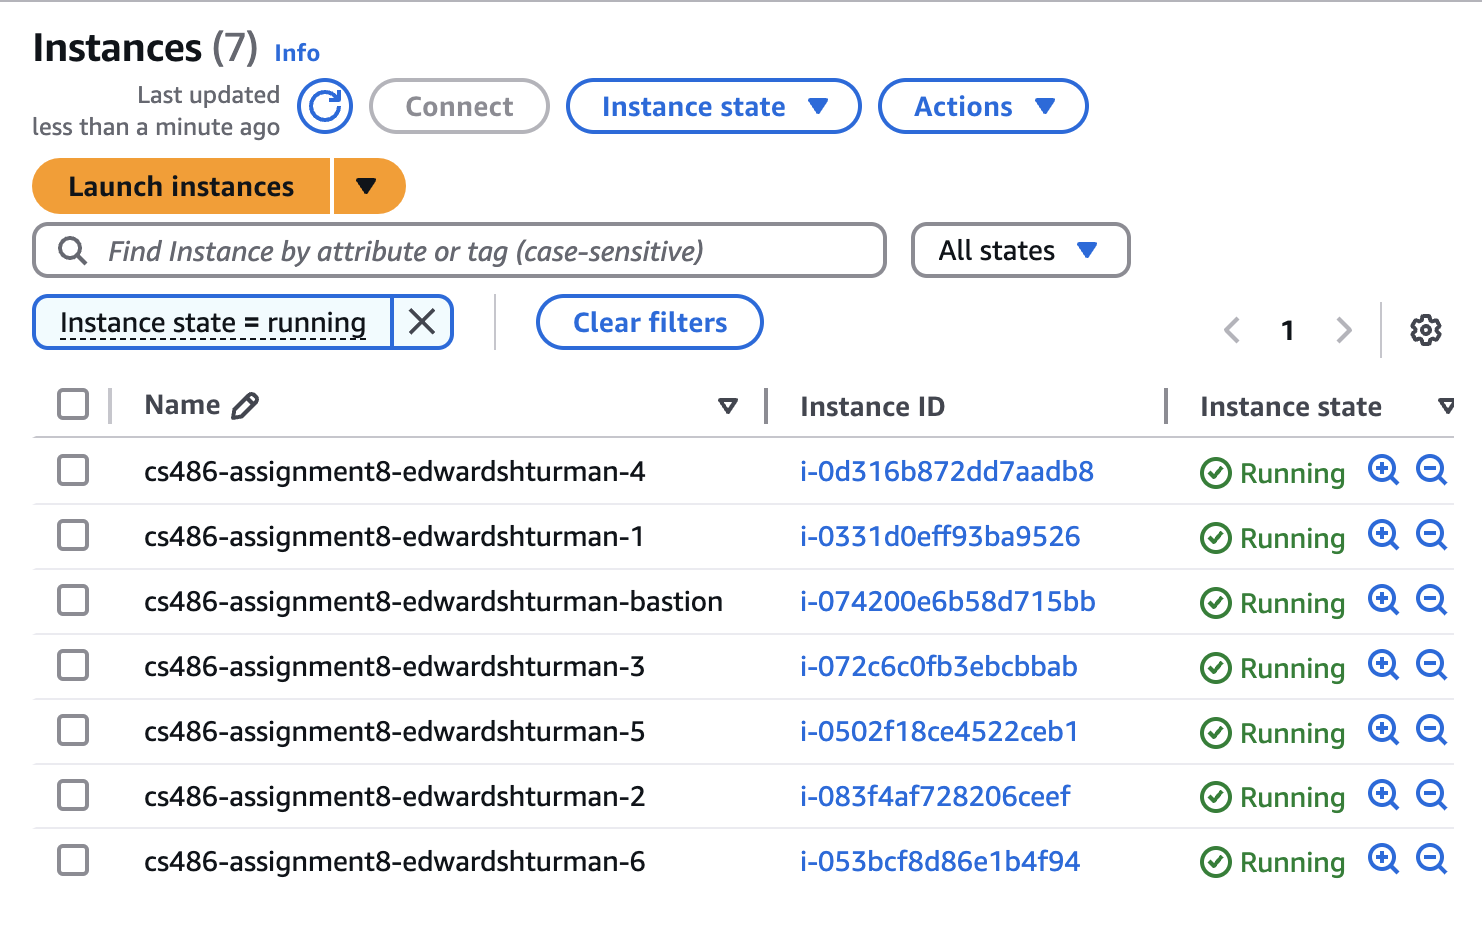
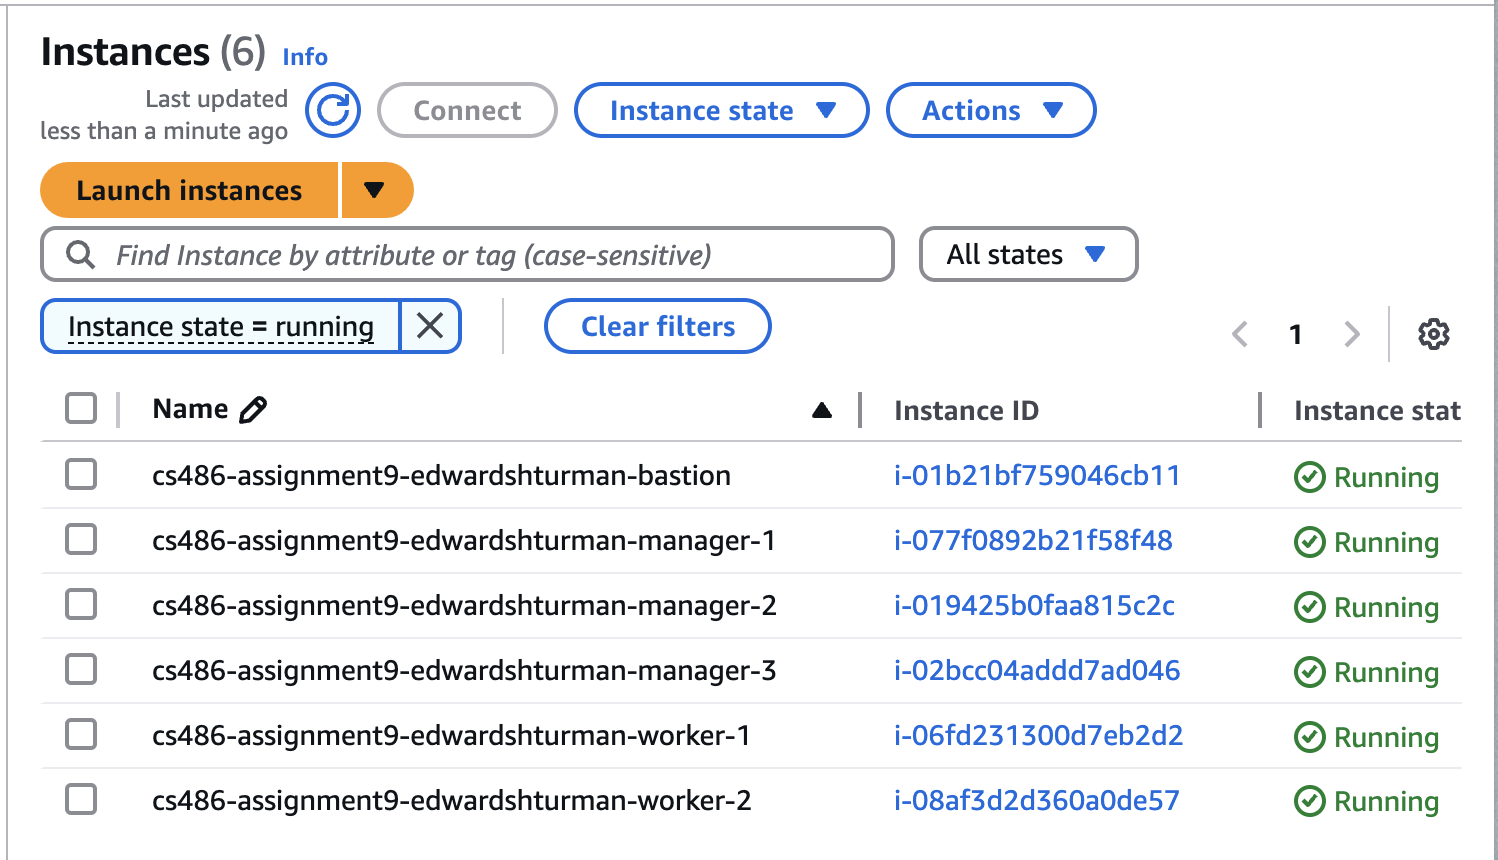
Update README based on changes in Assignment 9

diff --git a/README.md b/README.md
@@ -1,4 +1,4 @@
-# CS 486 Assignment 8
+# CS 486 Assignment 9
 
 Implementation details and instructions for using Terraform with Packer
 
@@ -23,8 +23,8 @@ brew install hashicorp/tap/terraform
 Get started by cloning this repo on your machine:
 
 ```zsh
-git clone https://github.com/edwardshturman/cs486-assignment8.git cs486-assignment8-edwardshturman
-cd cs486-assignment8-edwardshturman
+git clone https://github.com/edwardshturman/cs486-assignment9.git cs486-assignment9-edwardshturman
+cd cs486-assignment9-edwardshturman
 ```
 
 ### Required variables
@@ -82,14 +82,14 @@ The AMI ID from the output will automatically be added as `ami` to the Terraform
 
 ## Creating infrastructure with Terraform
 
-We're all good to go to launch six EC2 instances using our AMI created with Packer and a bastion host.
+We're all good to go to launch our five EC2 instances (two worker nodes, three manager nodes) using our AMI created with Packer and a bastion host.
 
 ```zsh
 terraform init
 terraform apply
 ```
 
-You should now see seven running instances in `us-west-1`.
+You should now see six running instances in `us-west-1`.
 
 ![Screenshot of AWS EC2 Instances in the Console](assets/instances.png)
 
@@ -98,13 +98,13 @@ You should now see seven running instances in `us-west-1`.
 You can SSH into the bastion host by running:
 
 ```zsh
-ssh -A -i bastion-key ec2-user@<bastion public IPv4>
+ssh -A -i bastion-key ubuntu@<bastion public IPv4>
 ```
 
 From there, you can connect to any one of the EC2 instances by using the private IPv4:
 
 ```zsh
-ssh ec2-user@<EC2 private IPv4>
+ssh ubuntu@<EC2 private IPv4>
 ```
 
 You can verify Docker was installed successfully and is running by creating a container for the `hello-world` image:
